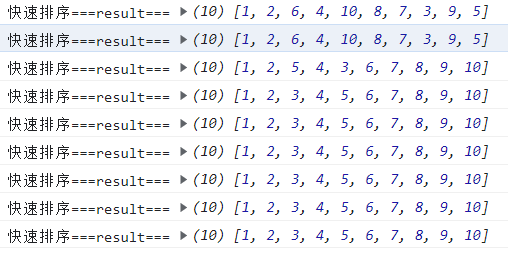
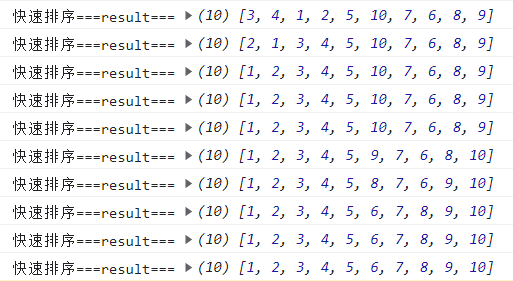
some change

Changed region(s): [[0.0, 0.332, 0.9744, 0.8854], [0.0, 0.0277, 1.0, 0.3043], [0.0, 0.913, 1.0, 1.0]]

diff --git a/docs/algorithm/sorting.md b/docs/algorithm/sorting.md
@@ -197,7 +197,7 @@ function mergeSort(array: number[], left: number, right: number) {
 基本思想：采用分治算法通过一趟排序将要排序的数据分割成独立的两部分，其中一部分的所有数据比另外一部分的所有数据都要小，然后再按此方法对这部分数据进行快速排序，整个排序过程可以递归进行，依此达到整个数据编程有序序列！
 
 ```ts
-const arr: number[] = [2, 4, 6, 1, 10, 8, 7, 3, 9, 5]
+const arr: number[] = [5, 4, 6, 2, 1, 10, 7, 3, 8, 9];
 
 function quickSort(array: number[], left: number, right: number) {
   if (left >= right) {
@@ -227,7 +227,7 @@ function quickSort(array: number[], left: number, right: number) {
 ```
 
 执行的过程
-
+[5, 4, 6, 2, 1, 10, 7, 3, 8, 9];
 ![执行过程](/blog/images/algorithm/sorting7.png)
 
 ![执行过程](/blog/images/algorithm/sorting12.awebp)
